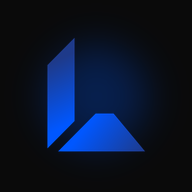
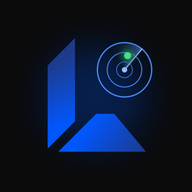
Radar: ícone próprio com um radar ao lado do L da Landora
Mantém o L da Landora e acrescenta um pequeno radar (anéis, varredura e um
ponto verde de lead) no canto superior direito, para o Radar não ser uma cópia
do ícone do app. Favicon com traço mais grosso para ser legível em 16-64 px e
versão maskable dentro da área segura. Script em tools/gerar_icones.py.

Claude-Session: https://claude.ai/code/session_01EJgc9qPkvMwT9UqAeaVZKk

diff --git a/radar-prospeccao/tools/gerar_icones.py b/radar-prospeccao/tools/gerar_icones.py
@@ -1,0 +1,69 @@
+"""Gera os ícones do Radar: o "L" da Landora com um pequeno radar no canto superior direito.
+
+Uso (na pasta radar-prospeccao):  python3 tools/gerar_icones.py
+Base: ../landora-app/public/icon-512.png (ícone do app Landora). Saída: public/.
+"""
+import math, os
+from PIL import Image, ImageDraw, ImageFilter
+
+HERE = os.path.dirname(os.path.abspath(__file__))
+ROOT = os.path.dirname(HERE)
+BASE = os.path.join(ROOT, "..", "landora-app", "public", "icon-512.png")
+OUT = os.path.join(ROOT, "public")
+S = 4  # desenha 4x maior e reduz: bordas suaves
+
+def radar_layer(size=512, cx=332, cy=186, r=74, grosso=1.0):
+    W = size * S
+    lay = Image.new("RGBA", (W, W), (0, 0, 0, 0))
+    d = ImageDraw.Draw(lay)
+    X, Y, R = cx * S, cy * S, r * S
+    # varredura: setor com brilho que some para trás
+    sweep = Image.new("RGBA", (W, W), (0, 0, 0, 0))
+    ds = ImageDraw.Draw(sweep)
+    end = -50  # graus (0 = direita, sentido horário no PIL)
+    for i in range(70):
+        a0 = end - 70 + i
+        alpha = int(6 + 120 * (i / 69) ** 1.6)
+        ds.pieslice([X - R, Y - R, X + R, Y + R], a0, a0 + 1.6, fill=(90, 160, 255, alpha))
+    lay = Image.alpha_composite(lay, sweep)
+    d = ImageDraw.Draw(lay)
+    # anéis
+    for k, (rr, w, a) in enumerate([(1.0, 7, 235), (0.64, 6, 200), (0.30, 5, 170)]):
+        q = R * rr
+        d.ellipse([X - q, Y - q, X + q, Y + q], outline=(77, 141, 255, a), width=max(1, int(w * S * grosso / 2)))
+    # ponteiro da varredura
+    ang = math.radians(end)
+    d.line([X, Y, X + R * math.cos(ang), Y + R * math.sin(ang)], fill=(150, 190, 255, 255), width=max(1, int(6 * S * grosso / 2)))
+    # centro
+    c = 7 * S * grosso
+    d.ellipse([X - c, Y - c, X + c, Y + c], fill=(150, 190, 255, 255))
+    # "blip": um lead encontrado, com brilho
+    bx, by = X + R * 0.52 * math.cos(math.radians(-78)), Y + R * 0.52 * math.sin(math.radians(-78))
+    glow = Image.new("RGBA", (W, W), (0, 0, 0, 0))
+    g = 22 * S
+    ImageDraw.Draw(glow).ellipse([bx - g, by - g, bx + g, by + g], fill=(34, 197, 94, 120))
+    glow = glow.filter(ImageFilter.GaussianBlur(9 * S))
+    lay = Image.alpha_composite(lay, glow)
+    b = 9 * S * grosso
+    ImageDraw.Draw(lay).ellipse([bx - b, by - b, bx + b, by + b], fill=(74, 222, 128, 255))
+    return lay.resize((size, size), Image.LANCZOS)
+
+def main():
+    base = Image.open(BASE).convert("RGBA")
+    icon = Image.alpha_composite(base, radar_layer())
+    icon.save(os.path.join(OUT, "icon-512.png"))
+    icon.resize((192, 192), Image.LANCZOS).save(os.path.join(OUT, "icon-192.png"))
+    icon.convert("RGB").resize((180, 180), Image.LANCZOS).save(os.path.join(OUT, "apple-touch-icon.png"))
+    # favicon: radar maior e com traço grosso para continuar legível em 16-64 px
+    fav = Image.alpha_composite(base, radar_layer(cx=322, cy=196, r=100, grosso=2.2))
+    fav.resize((64, 64), Image.LANCZOS).save(os.path.join(OUT, "favicon-64.png"))
+    fav.save(os.path.join(OUT, "favicon.ico"), sizes=[(16, 16), (32, 32), (48, 48), (64, 64)])
+    # maskable: o celular recorta em círculo/gota; encolhe o desenho para caber na área segura (80%)
+    bg = Image.new("RGBA", (512, 512), base.getpixel((5, 5)))
+    small = icon.resize((420, 420), Image.LANCZOS)
+    bg.alpha_composite(small, (46, 46))
+    bg.save(os.path.join(OUT, "icon-maskable-512.png"))
+    print("ícones gerados em", OUT)
+
+if __name__ == "__main__":
+    main()
